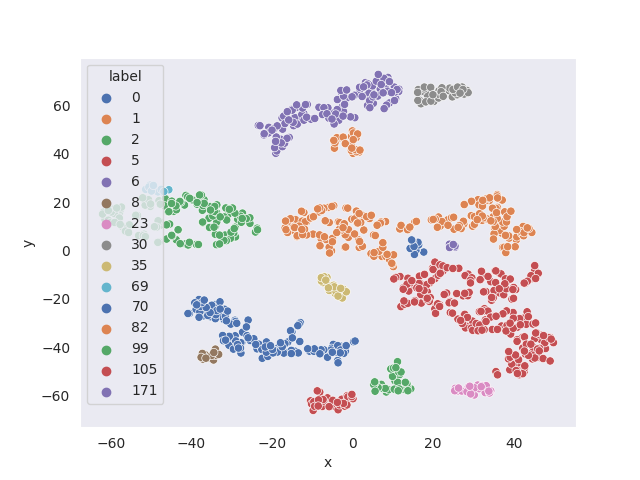
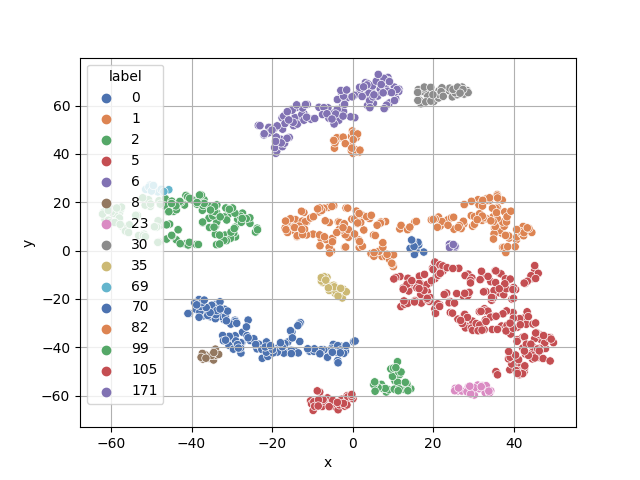
Add `z.fill(2)` to make text more readable

diff --git a/main.py b/main.py
@@ -33,8 +33,8 @@ def main():
     # plotter.plot_mst_2d(mst, intermediate=True, plot_cluster=True, num_clusters=10)
     print(f"runs: {runs}")
     for i in range(0, 20):
-        plotter.plot_vertex_coordinates(coordinates, np.array(yhats[i]), f"run_{i}_clustering")
-    # print(f"graph: {np.array(graph).shape}")
+        plotter.plot_vertex_coordinates(coordinates, np.array(yhats[i]), f"run_{str(i).zfill(2)}_clustering")
+    # print(f"graph: {np.array(graph).shape}")  
     # print(f"yhats: {np.array(yhats).shape}")
     # print(f"contracted_leader: {np.array(contracted_leader)}")
     # print('Graph size: ', len(graph), graph)

diff --git a/plotter.py b/plotter.py
@@ -345,10 +345,11 @@ class Plotter:
         num_clusters = len(set(labels))
         palette = sns.color_palette("deep", num_clusters)
         sns.scatterplot(data=df, x="x", y="y", hue="label", palette=palette)
-        sns.set_style("darkgrid")
+        # sns.set_style("darkgrid")
         plt.grid()
         file_name = self.file_loc + f"{name_prefic}_visualize_numclusters_{num_clusters}.png"
         plt.savefig(file_name)
+        plt.close("all")
         
     def plot_cluster(self, yhat, final, vertex_coordinates, labels):
         
